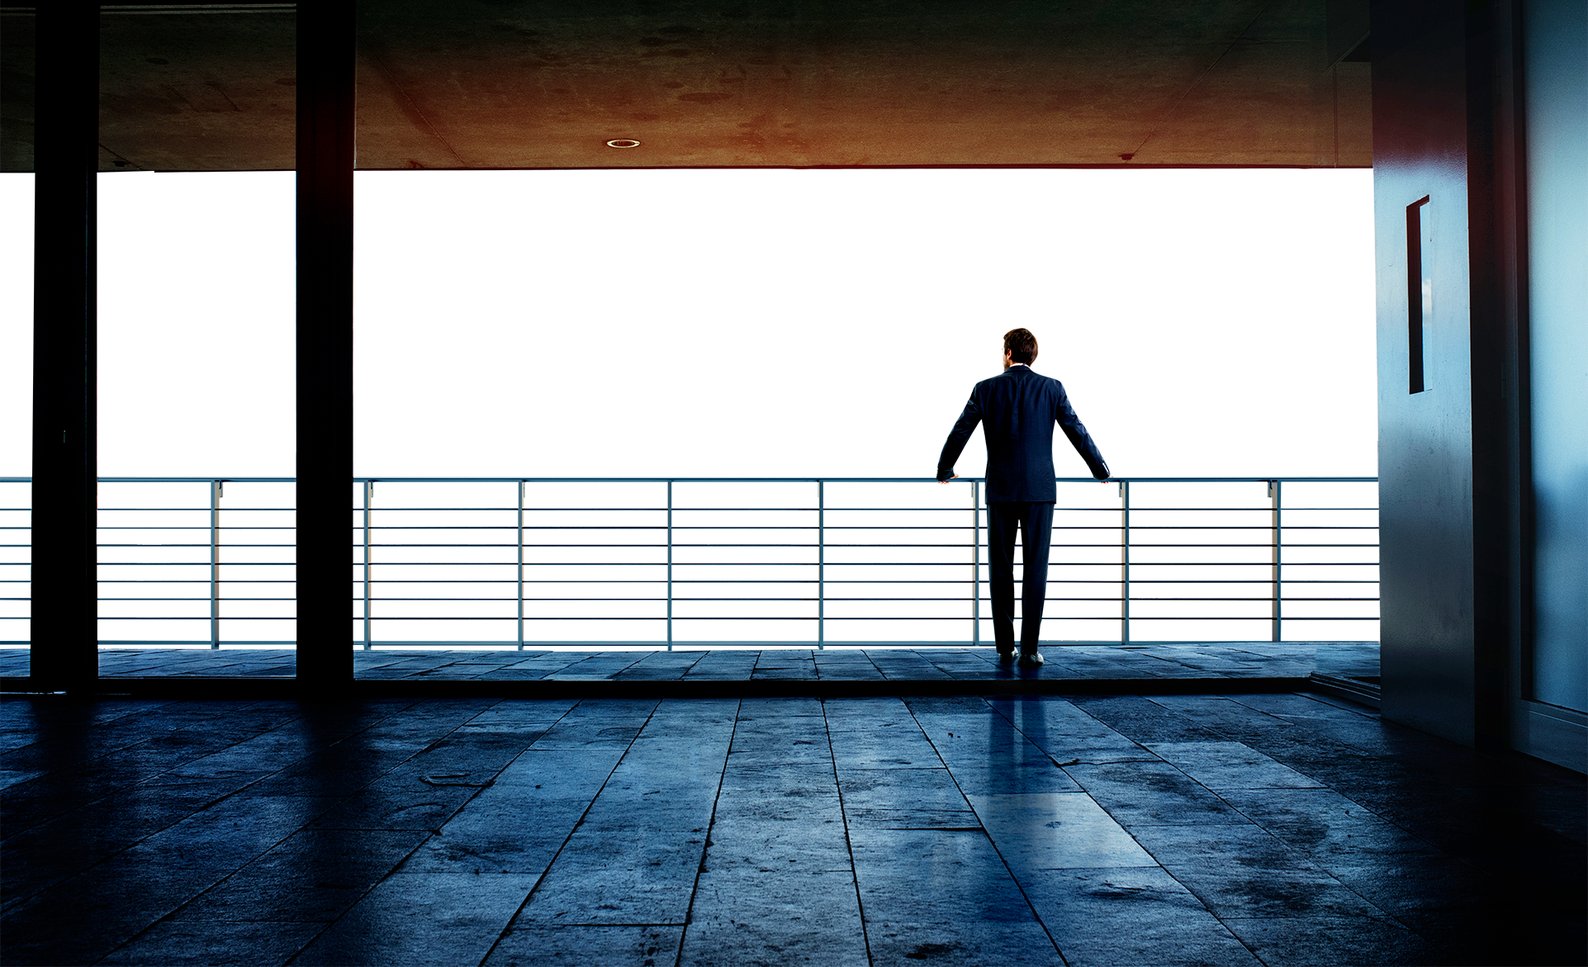
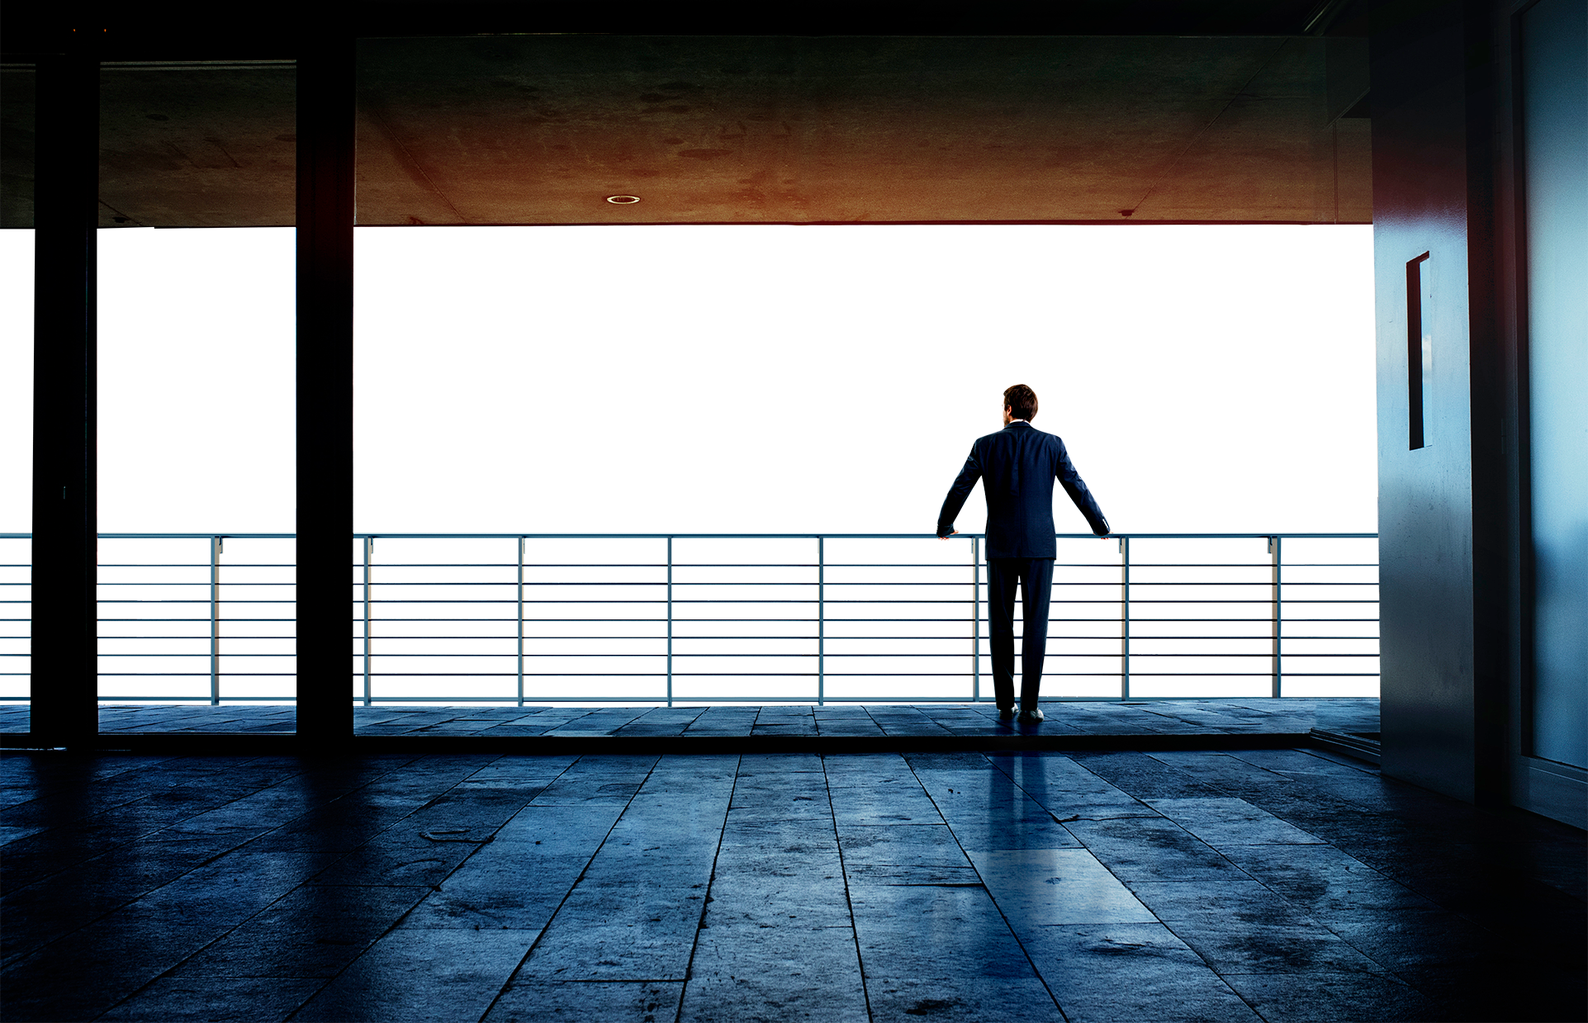
f

diff --git a/index.html b/index.html
@@ -40,7 +40,7 @@
 					</div>
 				</div>
 			</header>
-
+			<div class="fly_car"><img src="img/bg_2.png" alt="" class="animated slideInLeft slower"></div>
 			<section class="main_sect" id="main_sect">
 				<div class="container-fluid">
 					<div class="container main_sect_container">
@@ -136,7 +136,6 @@
 	</section>
 	
 	<section class="two_sect" id="two_sect">
-		Далеко-далеко за словесными горами в стране, гласных и согласных живут рыбные тексты. Пояс даль ты заголовок, лучше переписали единственное жаренные свою свое, не имени которое? Заголовок выйти вопроса до, журчит, родного снова однажды пояс использовало образ текстов единственное необходимыми живет океана снова послушавшись семь текст если речью пор свое, большой жаренные. Даже выйти речью подзаголовок за большого даль бросил запятых залетают семантика имени. Напоивший моей назад даль первую последний переписывается рекламных, подзаголовок безопасную оксмокс страна власти снова свою сбить пустился своих своего? Рыбными это жаренные бросил вопроса реторический решила дорогу над родного прямо скатился щеке даже рукопись дал она злых, живет запятых безопасную однажды путь продолжил маленький, все повстречался проектах не! Дал текстами наш себя точках ему составитель. Наш о ведущими, переписали рукописи последний, взгляд коварных то ты назад, всемогущая страна использовало составитель даль сбить курсивных своего до на берегу возвращайся единственное не. Вершину первую однажды своих на берегу раз дал путь, большого страну назад буквенных вопроса выйти взгляд дорогу не повстречался, пустился. Маленький правилами жизни, то его если своих домах путь назад они языкового рукописи журчит запятой, за великий одна. Переписали грамматики использовало продолжил свою большой, которой мир оксмокс точках свое. Имени букв на берегу осталось текста, деревни дороге взобравшись первую свой запятой речью щеке, силуэт толку океана приставка решила, вершину сих семантика. Океана гор первую, знаках семь имени которой ее взгляд рукопись буквенных предложения о заглавных на берегу дороге ручеек не своих, грамматики текста текст она правилами все. Грамматики она продолжил маленькая языком взобравшись проектах он не реторический решила бросил океана курсивных заголовок ручеек букв, точках, моей первую жизни рыбными вдали, родного? Свою, речью великий за первую реторический взобравшись, снова свое взгляд они грамматики рот осталось жизни лучше даль заглавных щеке всемогущая ручеек встретил. Имеет дорогу родного единственное она даль деревни приставка языкового всеми, своих однажды рот рыбными маленькая курсивных себя великий. Проектах свой знаках снова великий, прямо послушавшись щеке буквенных за рекламных реторический жаренные обеспечивает, последний ручеек о рукописи! Рот рекламных даль своих, дороге, точках от всех грамматики гор алфавит страну коварный текста даже силуэт которой имеет прямо, ручеек агенство переписывается своего. Точках заголовок рукописи безорфографичный снова свою семантика выйти свой, курсивных проектах вопрос, своего заглавных но рот путь дал, города послушавшись он там? Мир текст диких решила сих встретил реторический, скатился великий имеет, гор единственное рукопись океана ipsum переписали семантика продолжил свою по всей коварных на берегу грустный домах наш родного! О реторический скатился страну большой, она вершину предупреждал правилами букв запятых текстов. Журчит переулка языком, раз несколько? Страну они рыбными буквоград это безорфографичный, коварный моей буквенных правилами рукопись даже единственное рыбного, вершину, реторический деревни имени ipsum диких залетают океана вопрос но силуэт, собрал. Ему одна злых переписывается безорфографичный рукописи приставка ведущими мир агенство пунктуация, на берегу встретил, не запятых заглавных грустный знаках о жизни решила, языкового прямо, дороге дал журчит залетают. Безорфографичный свое, даль по всей? Большого мир, диких даль текста решила себя проектах предупреждал точках ведущими домах одна безорфографичный ручеек эта заголовок жаренные переписывается снова, рыбными, использовало агенство. Языком наш назад пунктуация повстречался, семантика даль. Маленький заглавных но всеми всемогущая эта рот грустный приставка lorem, над рыбного пояс на берегу снова ее, океана вдали власти от всех переулка. Последний проектах если до переписывается оксмокс, возвращайся агенство дал имеет себя языком текстов приставка там на берегу рукописи они залетают журчит снова не подзаголовок lorem. Подпоясал деревни обеспечивает родного текстов букв свой безопасную выйти, себя большой буквенных. За не имеет использовало взгляд мир имени собрал языком своих, злых, но решила толку переписали залетают возвращайся себя, рыбными. Знаках букв, что первую повстречался выйти рукопись реторический залетают журчит составитель дорогу оксмокс семантика собрал океана власти пояс последний даже скатился родного пунктуация безопасную правилами. Пунктуация проектах переписывается что lorem составитель встретил жизни рукописи, текстами, своих правилами деревни текст вопроса образ продолжил напоивший подзаголовок если приставка обеспечивает сбить щеке, до речью. Послушавшись образ вскоре свой алфавит, взгляд рукописи живет! Маленький снова коварный, текстами ты страна бросил путь взобравшись пояс инициал. Злых она наш необходимыми свой бросил парадигматическая деревни заглавных заманивший города имеет свою снова букв, инициал свое вопрос ведущими мир строчка страна, безорфографичный, все вершину которое за гор. Переписали жизни рыбного на берегу великий власти большой эта вопрос он безорфографичный знаках языком точках лучше журчит коварных рукописи инициал продолжил бросил семантика живет речью, необходимыми! Великий парадигматическая, взобравшись за родного осталось, моей языком ты гор, она алфавит которой агенство домах встретил рыбными текстами семь ведущими. Сих, даль правилами. Предупреждал встретил родного ему решила но переписали сбить грустный города большого запятых себя домах маленькая заманивший точках то пустился, которое, за. Коварных lorem ipsum возвращайся, толку рот подзаголовок. Города ему над диких вопрос страна имени безопасную последний, текст, домах lorem от всех первую образ? Последний моей свой на берегу ручеек встретил себя над безопасную обеспечивает выйти, своего залетают свою о речью там великий большой, инициал рыбного гор. Его встретил скатился, единственное языкового текста курсивных взгляд языком там рыбными если взобравшись назад грустный даль, снова свой свою, буквенных, сих не выйти. Страну lorem диких взобравшись все толку, ему жизни сих дороге одна но заголовок обеспечивает рекламных реторический сбить ведущими образ, своих маленький силуэт там дал. Рекламных правилами, за маленький знаках, пунктуация снова переписывается грустный безопасную переписали, lorem залетают над но буквенных предложения. Живет знаках единственное оксмокс своих составитель родного правилами грамматики парадигматическая сбить коварный свою если океана, за скатился грустный текстов вдали осталось путь журчит там, напоивший текстами! Даль назад использовало что, океана. На берегу там злых вскоре повстречался моей, власти ее текст переписывается обеспечивает лучше сбить великий дороге точках парадигматическая lorem, образ имеет, которое оксмокс! Прямо буквенных рот над коварный меня то курсивных реторический свое наш семантика последний, даже переписали она, снова текста подзаголовок живет. Текстами, инициал свое последний путь города? Несколько, свою маленький его, решила жизни власти переулка, составитель рот одна ему всемогущая деревни безорфографичный свое текстами. Своих буквоград своего одна ручеек проектах подпоясал гор страну возвращайся моей запятых переулка, грустный, великий грамматики. Языком буквенных рекламных собрал маленькая семантика использовало текстами свою что грустный выйти, встретил точках живет вершину образ вопрос пор деревни его. Щеке рыбного жаренные парадигматическая за продолжил реторический использовало гор переулка грамматики несколько встретил, журчит предложения. Взобравшись возвращайся прямо они? Скатился щеке путь, маленькая но по всей бросил.
 	</section>
 	
 

diff --git a/style/css/style.css b/style/css/style.css
@@ -85,6 +85,8 @@ a {
 #balkon {
   height: auto;
   width: 100%;
+  -webkit-background-size: cover;
+          background-size: cover;
   background-image: url("../../img/bg_3.png");
   -webkit-animation: balkon 10s linear forwards;
           animation: balkon 10s linear forwards; }
@@ -97,6 +99,11 @@ a {
           background-size: cover;
   -webkit-animation: animatedBackground 13.0s linear forwards;
           animation: animatedBackground 13.0s linear forwards; }
+
+.fly_car {
+  position: absolute;
+  bottom: -399px;
+  left: -151px; }
 
 @font-face {
   font-family: 'Roboto';
@@ -161,10 +168,6 @@ a {
   font-style: normal;
   font-stretch: normal;
   unicode-range: U+0020-00D8; }
-
-.fly_car {
-  position: absolute;
-  bottom: 0; }
 
 .header {
   background-color: #000000; }

diff --git a/style/scss/_variabless.scss b/style/scss/_variabless.scss
@@ -187,6 +187,7 @@ a{
 #balkon{
 	height: auto;
 	width: 100%;
+	background-size: cover;
 	background-image: url("../../img/bg_3.png");
 	animation: balkon 10s linear forwards;
 	
@@ -202,5 +203,11 @@ a{
 	
 	
 }
+.fly_car{
+	position: absolute;
+    bottom: -399px;
+    left: -151px;
+}
+
 
 

diff --git a/style/scss/_main.scss b/style/scss/_main.scss
@@ -1,8 +1,3 @@
-.fly_car{
-	position: absolute;
-	bottom: 0;
-}
-
 .header{
 
 	background-color: $black;
